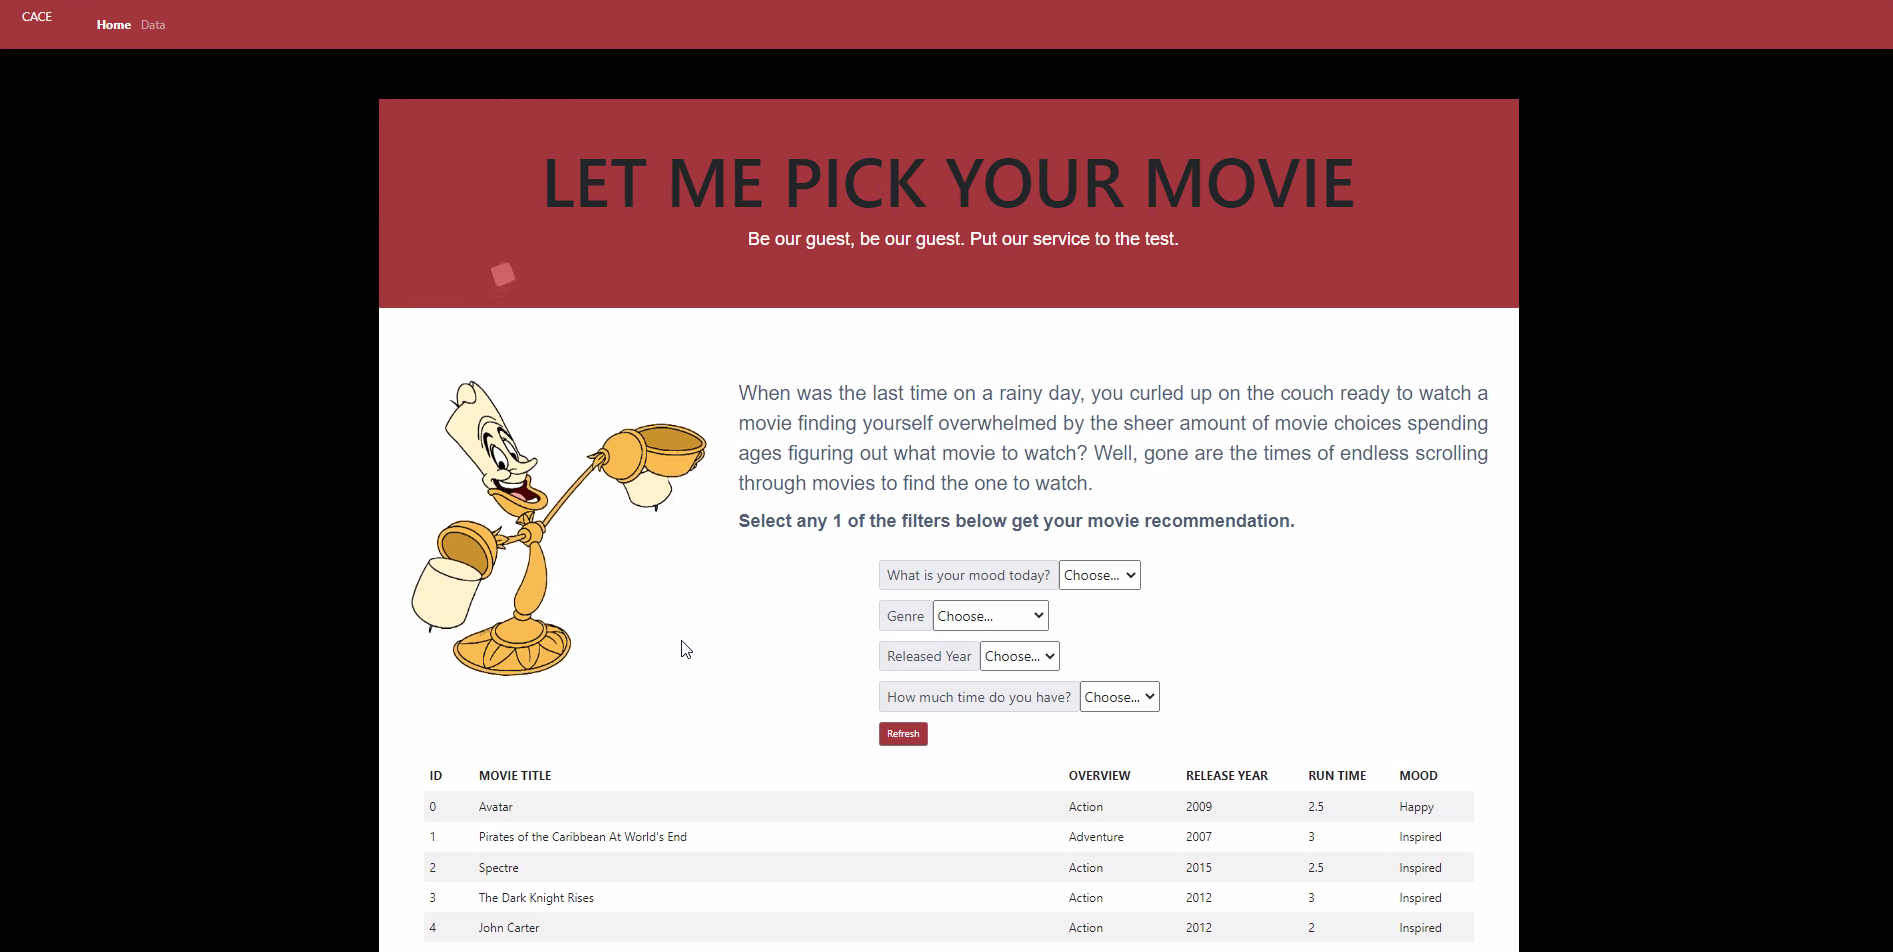
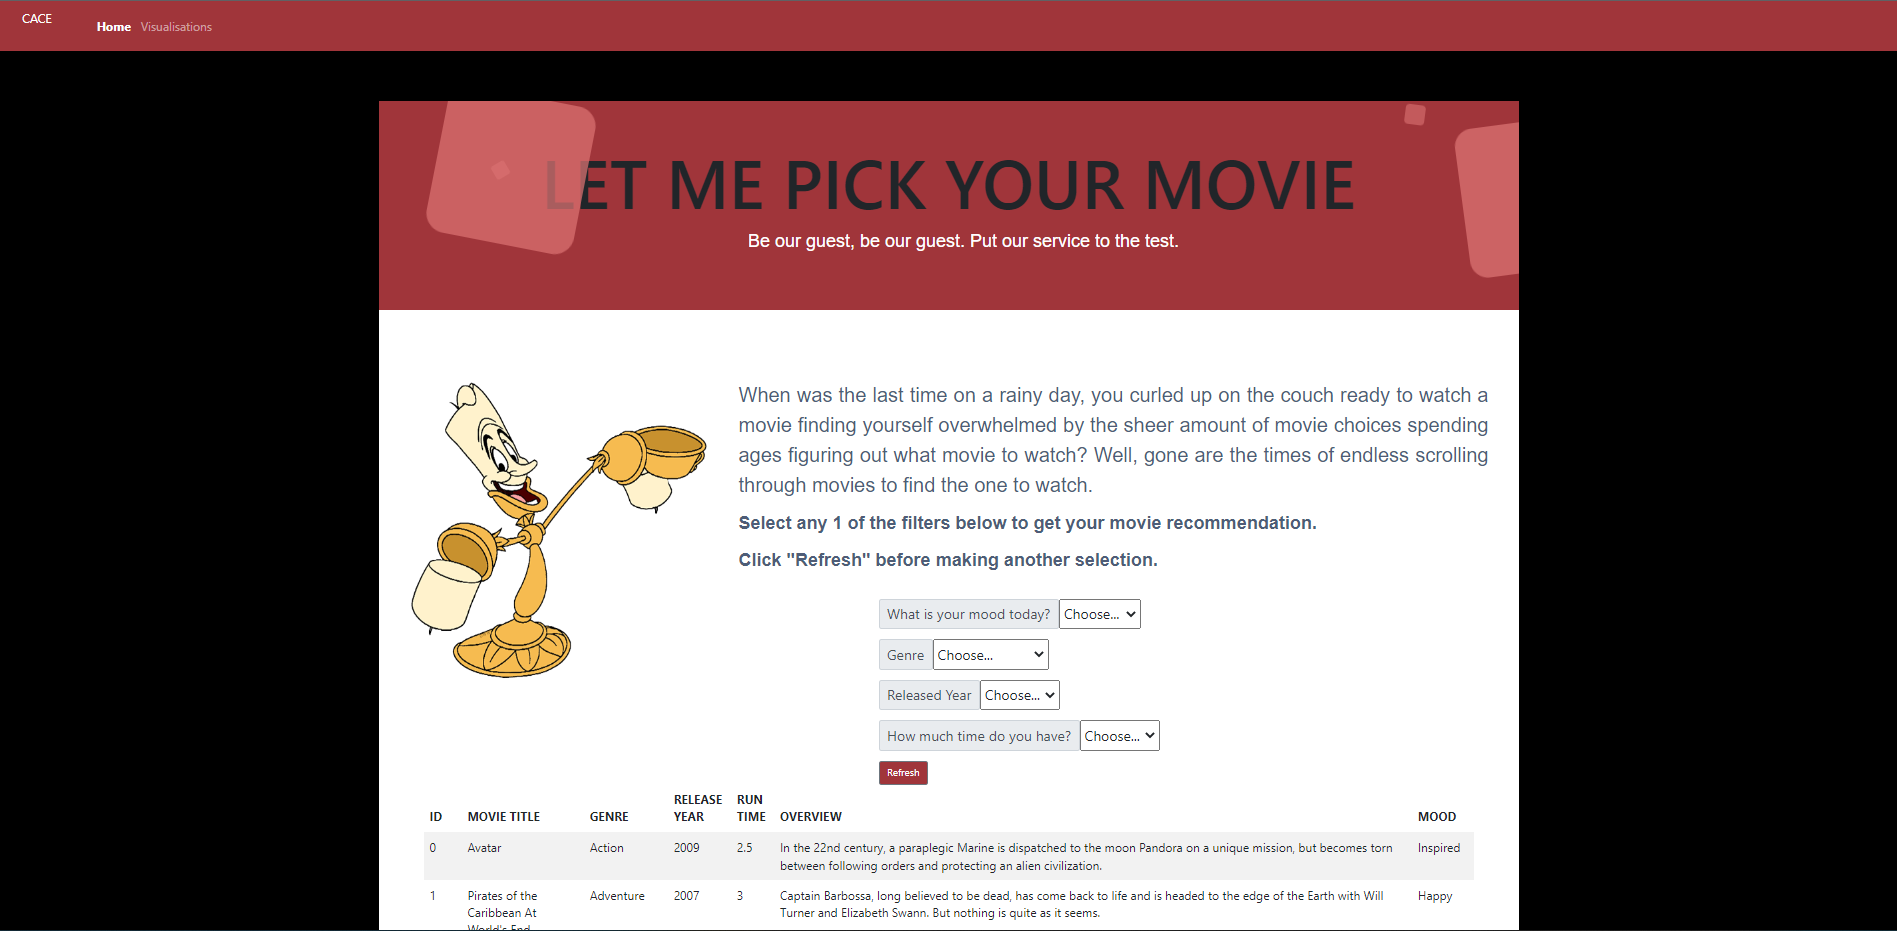
final cleanup

diff --git a/README.md b/README.md
@@ -7,7 +7,7 @@ Camille Evangelista, Aline Hornoff, Edbert Widjaja, Carmen Sin
 When was the last time on a rainy day, you curled up on the couch ready to watch a movie finding yourself overwhelmed by the sheer amount of movie choices spending ages figuring out what movie to watch? 
 
 Well, gone are the times of endless scrolling through movies to find the one to watch. 
-Enter your mood in the interactive dashboard and it will give you a top 5 movie recommendation to watch based on the mood your in.
+Enter your mood, the movie genre, release year of the movie or the time you have available to watch the movie in the interactive dashboard and it will give you a top 5 movie recommendation.
 
 Link to Movie Pick website: https://movie-pick-uwa-project.herokuapp.com/
 
